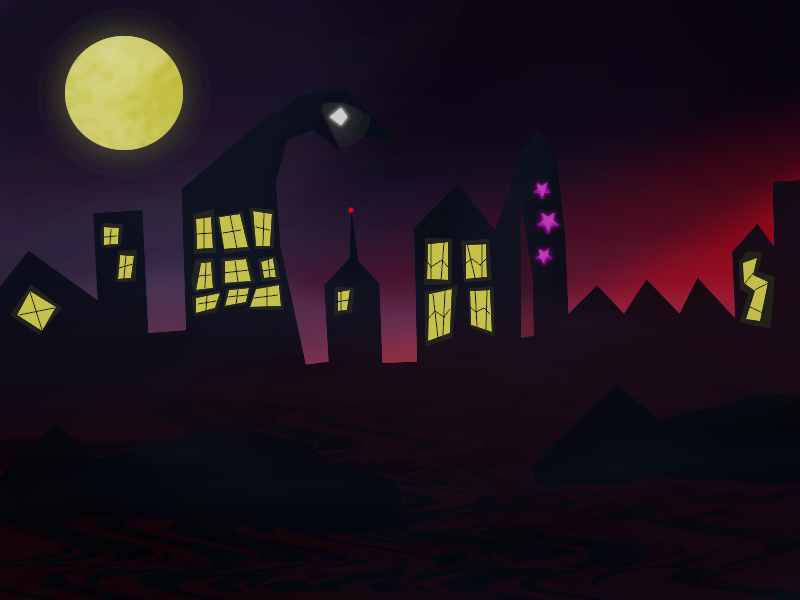
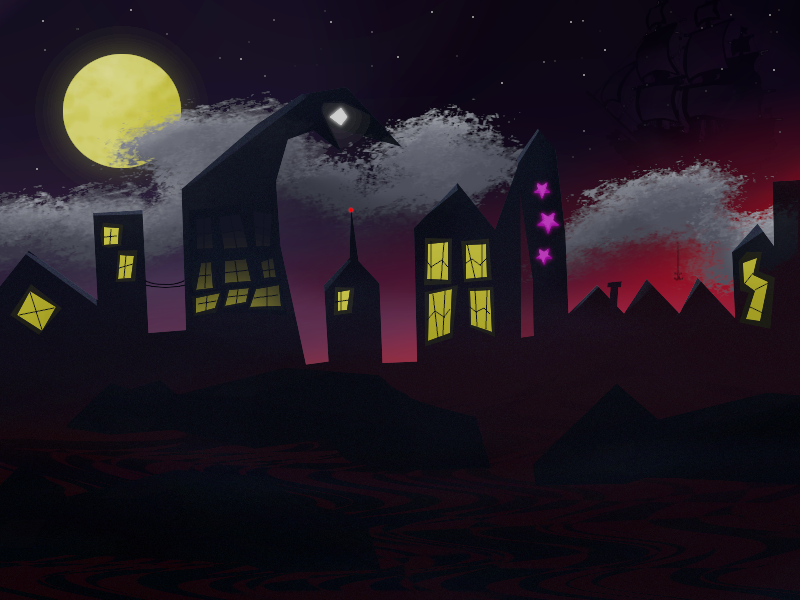
Replace pipe obstacles with themed assets
- Ceiling obstacles: chain extension with random anchor caps (ob2/obs)
- Floor obstacles: random base extensions (base1/base23) with random caps (ob3/obs1)
- Updated background image
- Added tinkandhexie-floor as ground texture

diff --git a/game.js b/game.js
@@ -166,23 +166,25 @@ const AssetManager = {
             this.loadImage('playNow', 'assets/tinkshex-playnow.png'),
             // Decorative elements
             this.loadImage('palm', 'assets/tink-palm.png'),
-            // Pipe caps (the opening part)
-            this.loadImage('topA', 'assets/topA.png'),
-            this.loadImage('topB', 'assets/TopB.png'),
-            this.loadImage('bottomA', 'assets/bottomA.png'),
-            this.loadImage('bottomB', 'assets/bottomB.png'),
-            // Pipe extensions (tileable body)
-            this.loadImage('topA-ext', 'assets/topA-ext.png'),
-            this.loadImage('topB-ext', 'assets/topB-ext.png'),
-            this.loadImage('bottomA-ext', 'assets/bottomA-ext.png'),
-            this.loadImage('bottomB-ext', 'assets/bottomB-ext.png')
+            // Background and ground
+            this.loadImage('background', 'assets/background.png'),
+            this.loadImage('ground', 'assets/tinkandhexie-floor.png'),
+            // Ceiling obstacle assets (chains)
+            this.loadImage('ceilingExt', 'assets/tinkandhex-chain.png'),
+            this.loadImage('ceilingCapA', 'assets/tinkandhex-ob2.png'),
+            this.loadImage('ceilingCapB', 'assets/tinkandhex-obs.png'),
+            // Floor obstacle assets (bases)
+            this.loadImage('floorExtA', 'assets/tinkandhexie-base1.png'),
+            this.loadImage('floorExtB', 'assets/tinkandhexie-base23.png'),
+            this.loadImage('floorCapA', 'assets/tinkandhex-ob3.png'),
+            this.loadImage('floorCapB', 'assets/tinkandhexie-obs1.png')
         ]);
         this.loaded = true;
     },
 
     // Draw a sprite - uses images for pipes if loaded, otherwise shapes
     drawSprite(ctx, name, x, y, w, h, opts = {}) {
-        const { rotation = 0, color = '#FFF', variant = 'A' } = opts;
+        const { rotation = 0, color = '#FFF' } = opts;
 
         ctx.save();
         ctx.translate(x + w / 2, y + h / 2);
@@ -194,10 +196,10 @@ const AssetManager = {
                 this.drawBird(ctx, 0, 0, w, h, opts);
                 break;
             case 'pipe_top':
-                this.drawPipeImage(ctx, 0, 0, w, h, true, variant);
+                this.drawPipeImage(ctx, 0, 0, w, h, true, opts);
                 break;
             case 'pipe_bottom':
-                this.drawPipeImage(ctx, 0, 0, w, h, false, variant);
+                this.drawPipeImage(ctx, 0, 0, w, h, false, opts);
                 break;
             case 'ground':
                 this.drawGround(ctx, 0, 0, w, h);
@@ -211,12 +213,21 @@ const AssetManager = {
     },
 
     // Draw pipe using image assets with cap + tiled extension
-    drawPipeImage(ctx, x, y, w, h, isTop, variant) {
-        const capKey = isTop ? `top${variant}` : `bottom${variant}`;
-        const extKey = isTop ? `top${variant}-ext` : `bottom${variant}-ext`;
-        // Use custom images if available, otherwise fall back to defaults
-        const capImg = this.customImages[capKey] || this.images[capKey];
-        const extImg = this.customImages[extKey] || this.images[extKey];
+    drawPipeImage(ctx, x, y, w, h, isTop, opts) {
+        let capImg, extImg;
+
+        if (isTop) {
+            // Ceiling: always chain extension, variant selects cap (A=ob2, B=obs)
+            const capVariant = opts.ceilingCapVariant || 'A';
+            capImg = this.images[`ceilingCap${capVariant}`];
+            extImg = this.images['ceilingExt'];
+        } else {
+            // Floor: variant selects extension (A=base1, B=base23) and cap (A=ob3, B=obs1)
+            const extVariant = opts.floorExtVariant || 'A';
+            const capVariant = opts.floorCapVariant || 'A';
+            capImg = this.images[`floorCap${capVariant}`];
+            extImg = this.images[`floorExt${extVariant}`];
+        }
 
         // Overlap amount to hide seams between cap and extensions
         const OVERLAP = 30;
@@ -360,13 +371,19 @@ const AssetManager = {
     },
 
     drawGround(ctx, x, y, w, h) {
-        // Use custom ground image if available
+        // Use custom ground image from IndexedDB if available
         if (this.customImages.ground) {
             ctx.drawImage(this.customImages.ground, x, y, w, h);
             return;
         }
 
-        // Default: draw shape
+        // Use ground image from assets folder
+        if (this.images.ground) {
+            ctx.drawImage(this.images.ground, x, y, w, h);
+            return;
+        }
+
+        // Fallback: draw shape
         // Dirt
         ctx.fillStyle = '#D4A574';
         ctx.fillRect(x, y, w, h);
@@ -379,7 +396,11 @@ const AssetManager = {
     // Draw background (custom or default sky color)
     drawBackground(ctx, w, h) {
         if (this.customImages.background) {
+            // Custom background from IndexedDB (admin upload)
             ctx.drawImage(this.customImages.background, 0, 0, w, h);
+        } else if (this.images.background) {
+            // Background from assets folder
+            ctx.drawImage(this.images.background, 0, 0, w, h);
         } else {
             // Default sky color
             ctx.fillStyle = '#70C5CE';
@@ -534,8 +555,12 @@ function spawnPipePair() {
     const bottomPipeY = gapCenterY + PIPE_GAP / 2;
     const bottomPipeHeight = CANVAS_HEIGHT - bottomPipeY;
 
-    // Randomly pick A or B variant for visual variety
-    const variant = seededRandom() < 0.5 ? 'A' : 'B';
+    // Randomly pick variants for ceiling and floor obstacles
+    // Ceiling: always chain extension, random cap (A=ob2, B=obs)
+    // Floor: random extension (A=base1, B=base23), random cap (A=ob3, B=obs1)
+    const ceilingCapVariant = seededRandom() < 0.5 ? 'A' : 'B';
+    const floorExtVariant = seededRandom() < 0.5 ? 'A' : 'B';
+    const floorCapVariant = seededRandom() < 0.5 ? 'A' : 'B';
 
     pipes.push({
         x: CANVAS_WIDTH,
@@ -543,7 +568,9 @@ function spawnPipePair() {
         topHeight: topPipeHeight,
         bottomY: bottomPipeY,
         bottomHeight: bottomPipeHeight,
-        variant: variant,
+        ceilingCapVariant: ceilingCapVariant,
+        floorExtVariant: floorExtVariant,
+        floorCapVariant: floorCapVariant,
         scored: false
     });
 }
@@ -686,7 +713,7 @@ function render(ctx) {
     if (palmImg && state !== GameState.READY) {
         const palmWidth = palmImg.width;
         const palmHeight = palmImg.height;
-        const palmY = GROUND_Y - palmHeight + 10; // Position at ground level
+        const palmY = GROUND_Y - palmHeight + 50; // Position at ground level
 
         // Calculate wrapped offset
         const wrappedOffset = palmOffset % palmWidth;
@@ -699,11 +726,16 @@ function render(ctx) {
 
     // Draw pipes
     for (const pipe of pipes) {
-        // Top pipe
-        AssetManager.drawSprite(ctx, 'pipe_top', pipe.x, 0, PIPE_WIDTH, pipe.topHeight, { variant: pipe.variant });
+        // Top pipe (ceiling obstacle)
+        AssetManager.drawSprite(ctx, 'pipe_top', pipe.x, 0, PIPE_WIDTH, pipe.topHeight, {
+            ceilingCapVariant: pipe.ceilingCapVariant
+        });
 
-        // Bottom pipe
-        AssetManager.drawSprite(ctx, 'pipe_bottom', pipe.x, pipe.bottomY, PIPE_WIDTH, pipe.bottomHeight, { variant: pipe.variant });
+        // Bottom pipe (floor obstacle)
+        AssetManager.drawSprite(ctx, 'pipe_bottom', pipe.x, pipe.bottomY, PIPE_WIDTH, pipe.bottomHeight, {
+            floorExtVariant: pipe.floorExtVariant,
+            floorCapVariant: pipe.floorCapVariant
+        });
 
         // Debug: draw pipe gap center line
         if (debugMode) {
